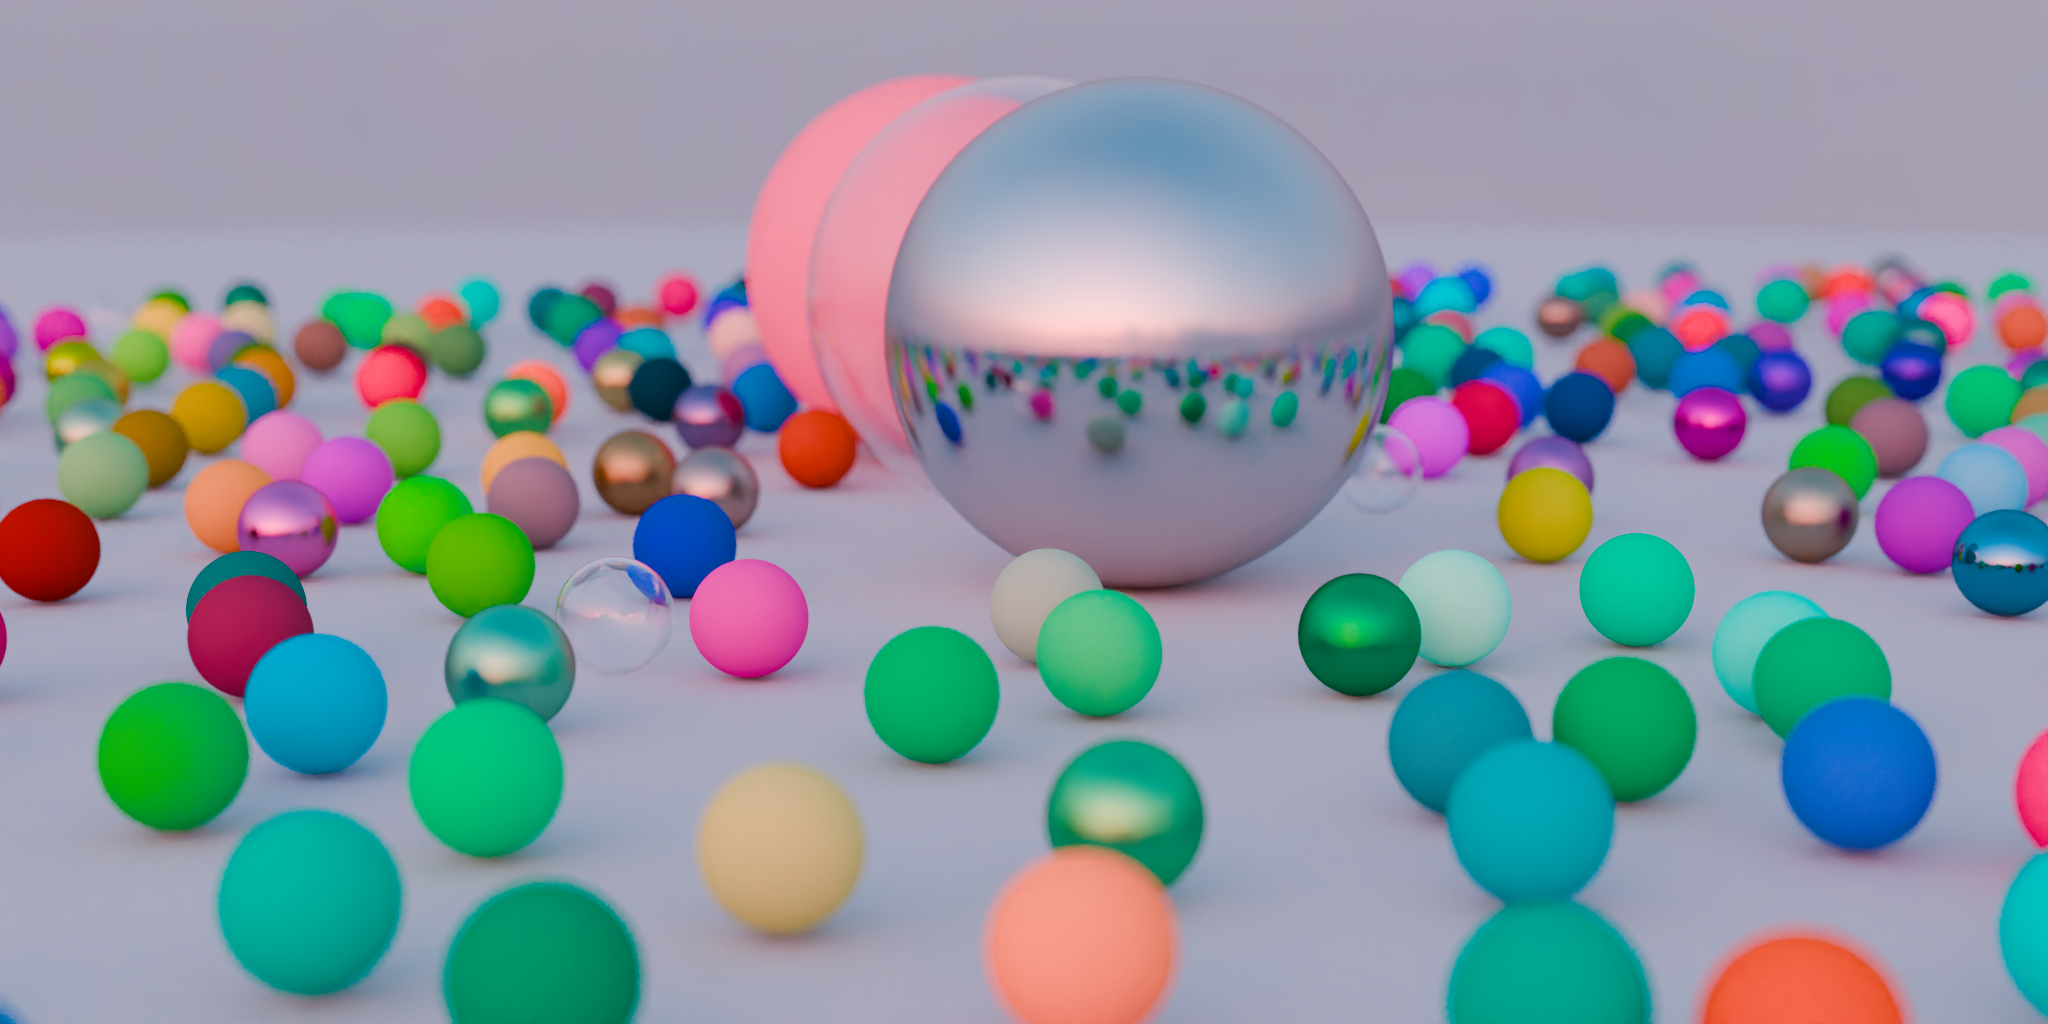
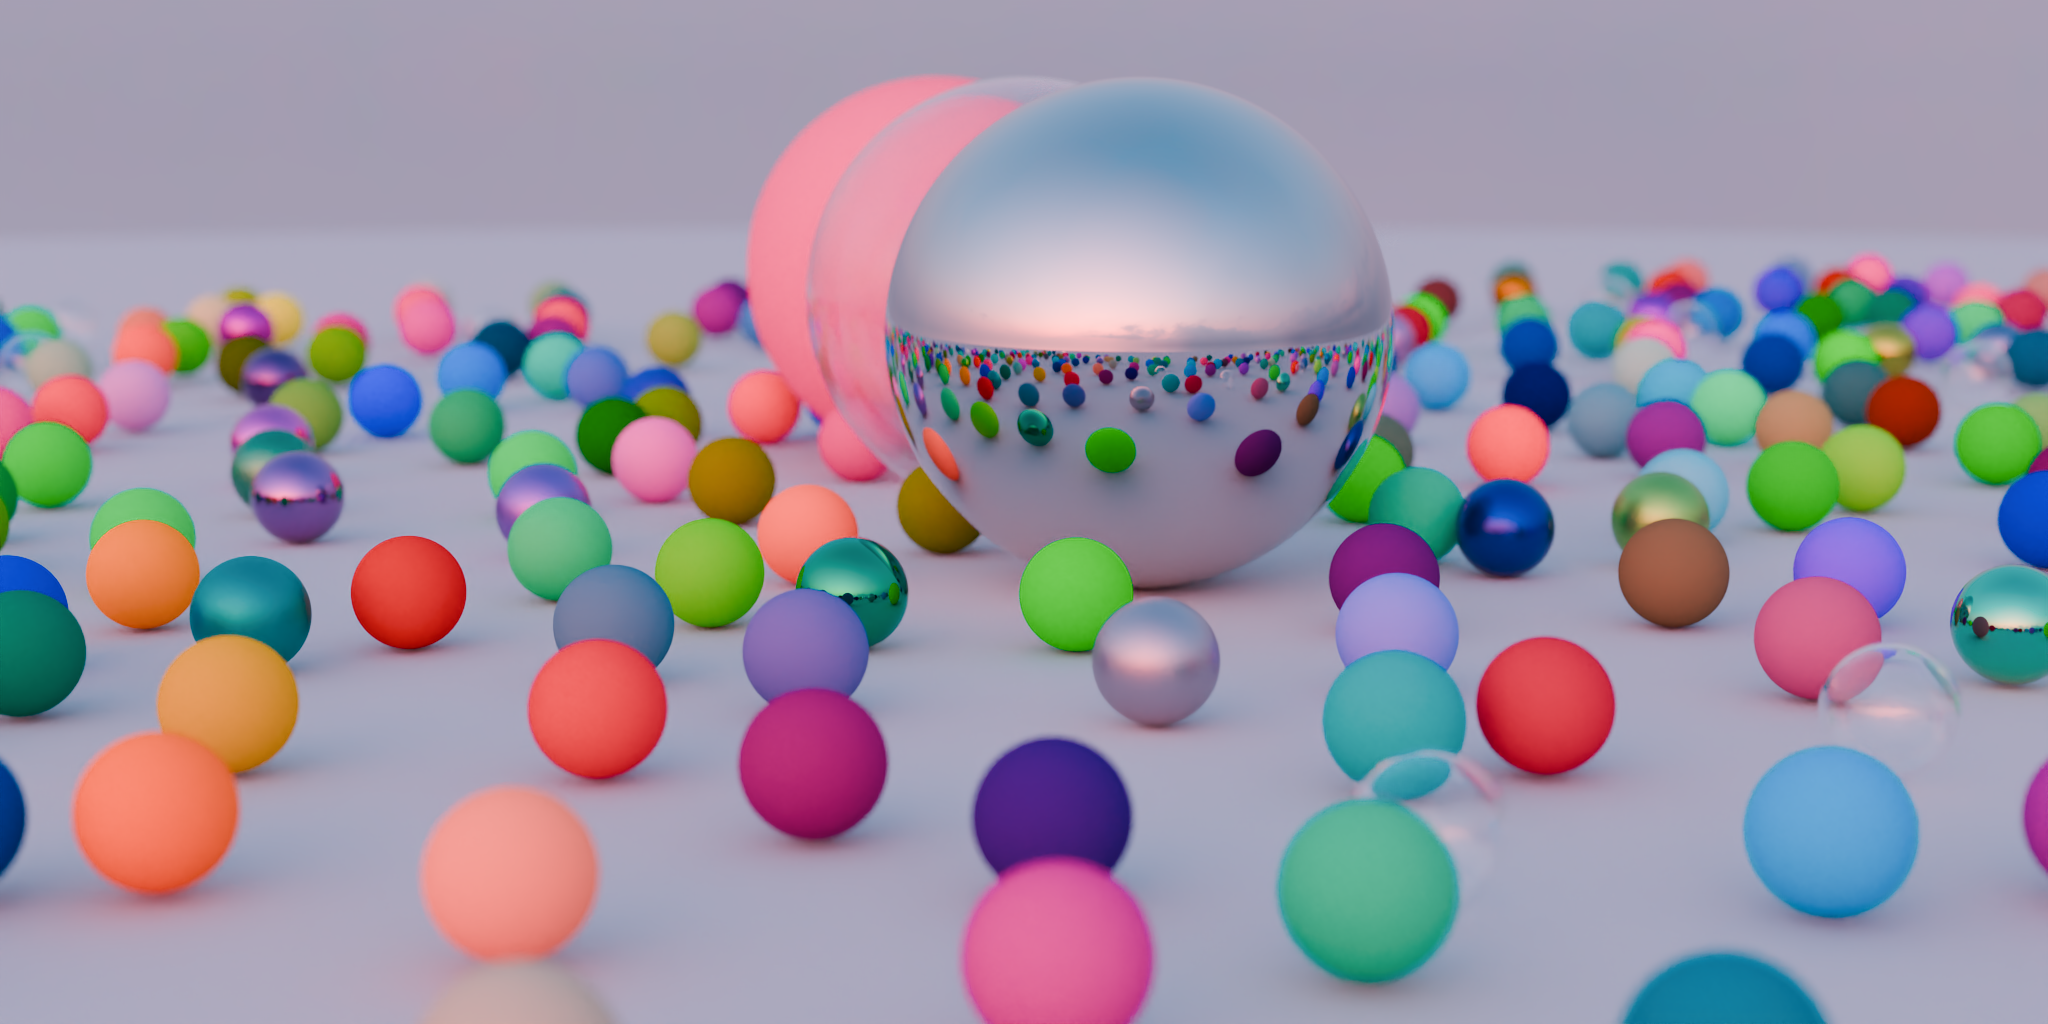
Update reflective material to use NEE and render new scene

diff --git a/src/materials.rs b/src/materials.rs
@@ -312,13 +312,14 @@ impl Reflective {
         let fresnel = schlick_from_f0(cos_theta_i, f0);
 
         if self.roughness == 0.0 {
-            // if roughness is set to 0.0, then handle this as a pre-weighted
-            // specular material and skip NEE
+            // handle this as a pre-weighted specular material and skip NEE.
             let pdf = PDF::Delta;
             Some(ScatterResult::new(scattered_ray, fresnel, pdf, true, true))
         } else {
+            // for roughness in [0.0, 0.05], fireflies will appear in high
+            // luminance scenes, however these can be denoised just fine.
             let pdf = PDF::GGX { wi: -ray.direction, normal: shading_normal, alpha: self.roughness };
-            Some(ScatterResult::new(scattered_ray, fresnel, pdf, false, true))
+            Some(ScatterResult::new(scattered_ray, Vec3A::ONE, pdf, false, false))
         }
     }
 

diff --git a/src/scenes/random_spheres.rs b/src/scenes/random_spheres.rs
@@ -104,7 +104,7 @@ pub fn random_spheres_scene(width: Option<usize>, height: Option<usize>, rng: &m
                           -0.99,
                           refr_idx).into());
 
-    let refl_idx = mat!(materials, Reflective::new(Color::new(0.5, 0.5, 0.5).into(), 0.05));
+    let refl_idx = mat!(materials, Reflective::new(Color::new(0.5, 0.5, 0.5).into(), 0.065));
     objects.push(Sphere::new(Vec3A::new(2.0, 1.0, 0.0),
                           1.0,
                           refl_idx).into());

diff --git a/README.md b/README.md
@@ -4,6 +4,6 @@
 Renderama is a path tracer in progress based off of Peter Shirley's
 [Ray Tracing Minibook](https://raytracing.github.io/) series with additional methods added from [Physically Based Rendering](https://pbrt.org/) and research papers from [Pixar Animation Studios](https://renderman.pixar.com/). 
 
-![Hyperion Test Scene](renders/hyperion.png)
+![Hyperion Test Scene](renders/random_spheres.png)
 ![Cornell Box](renders/cornell_box_objects.png)
 ![Veach MIS Scene](renders/veach_mis.png)
